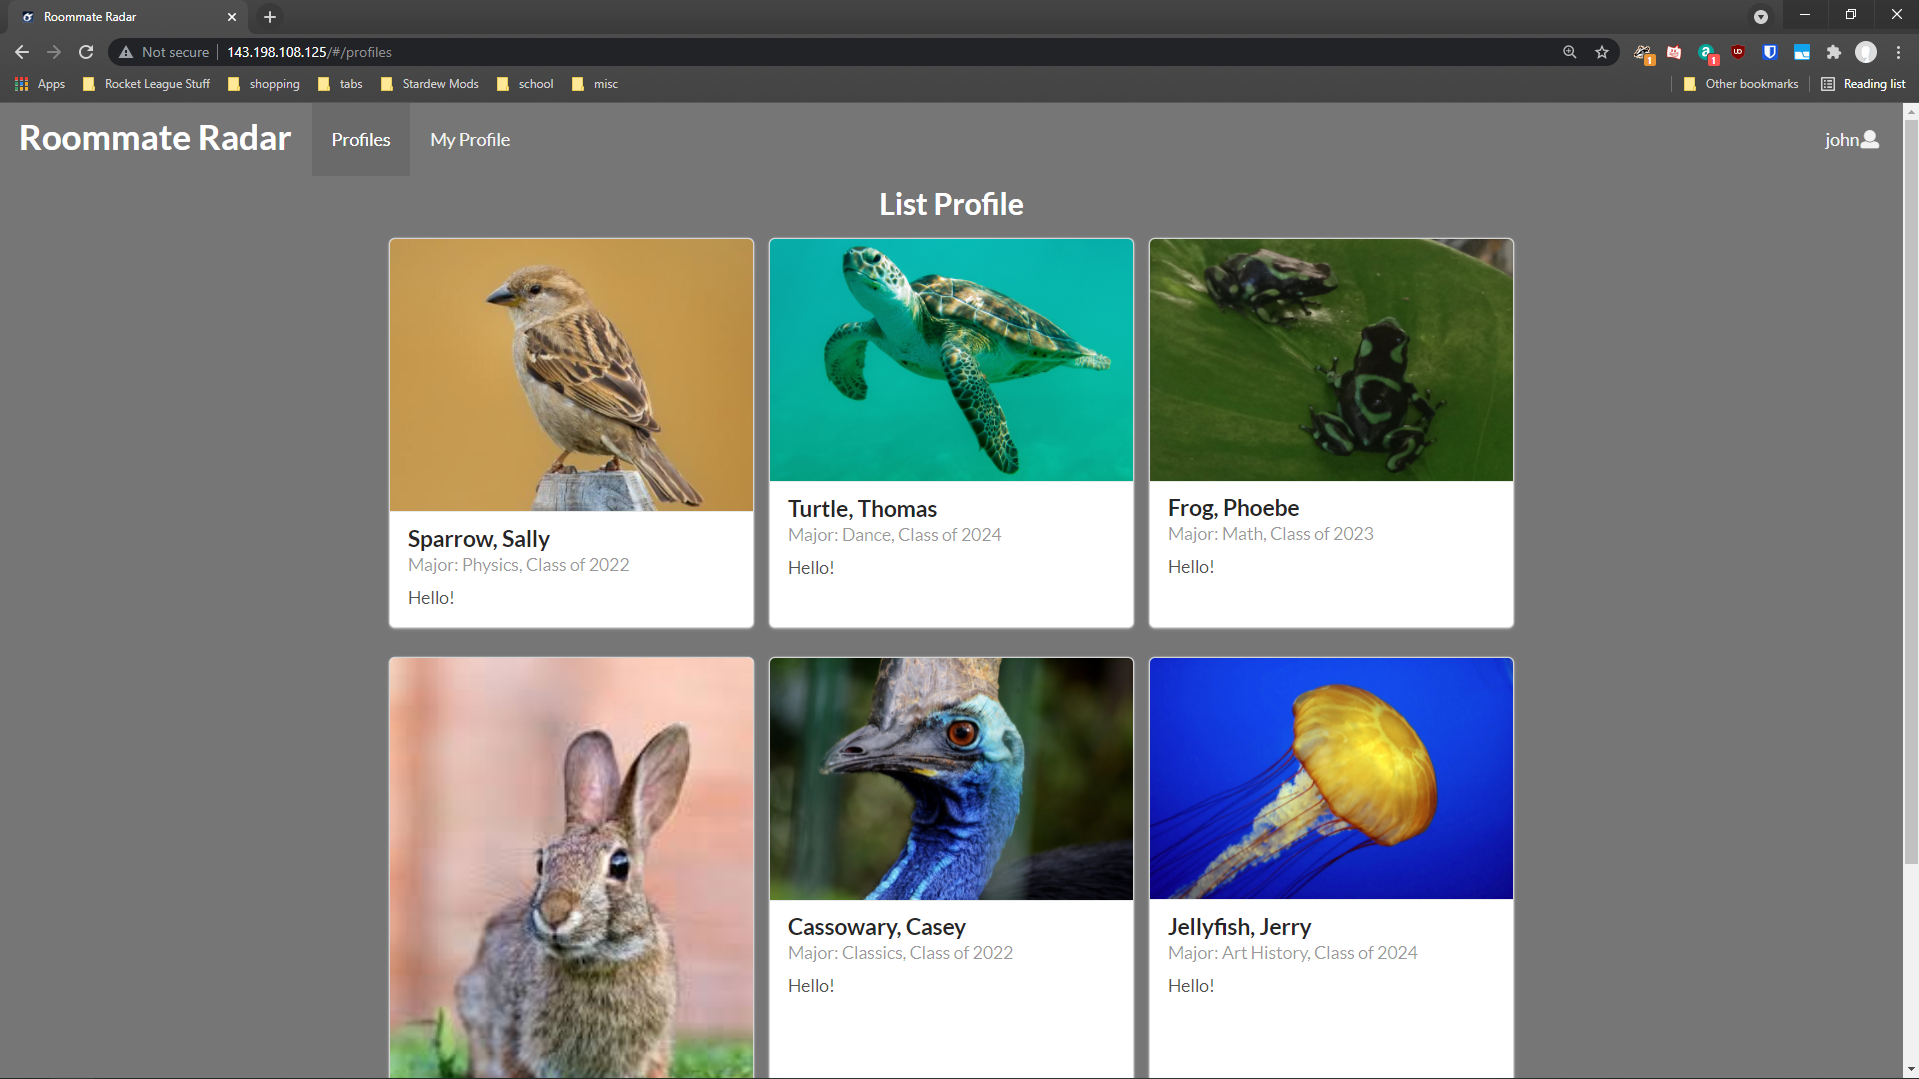
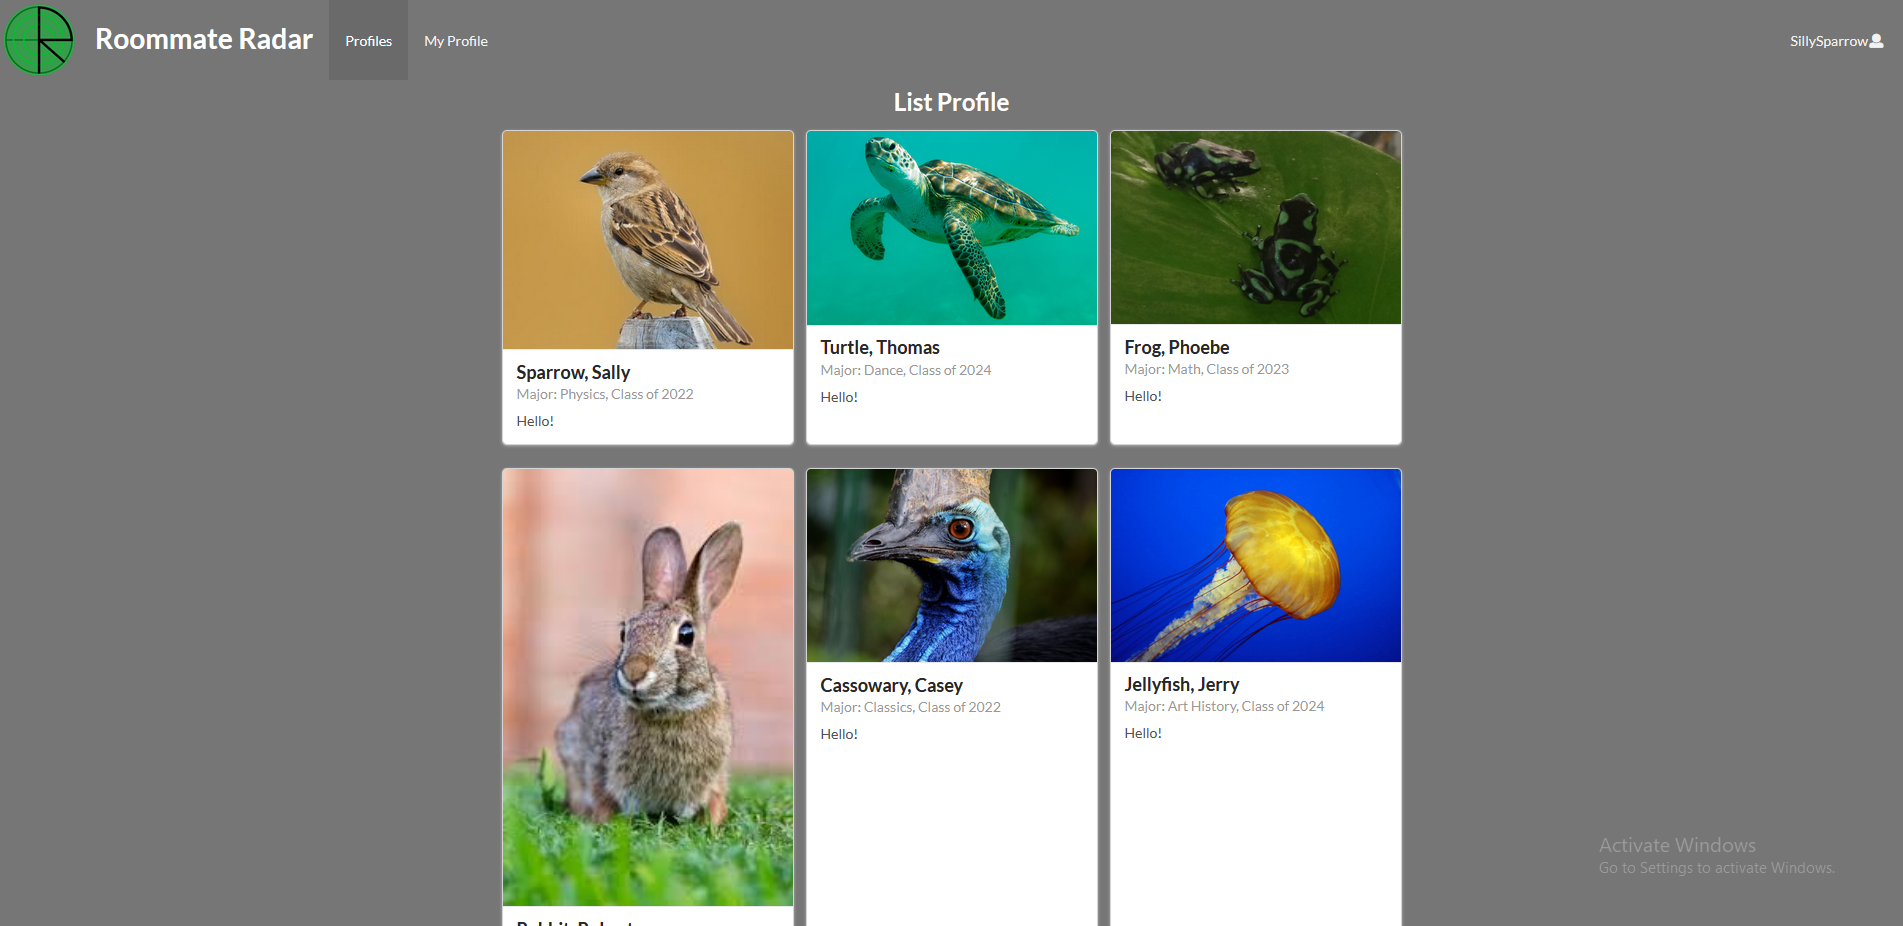
updated the images and mockups/user guide in the index.md

diff --git a/index.md b/index.md
@@ -33,21 +33,31 @@ If all goes well, the application will start up and appear at [http://localhost:
 
 ## Mockups
 ### Landing Page
-![](/images/landing_screenie.png)
-
 The landing page is the first page any prospective user will be presented with upon loading up Roommate Radar. On this page, potential users will be informed of what Roommate Radar is, and instructed to make an account.
-### Account Creation Page (1)
-![](/images/register_screenie.png)
+![](/images/landing_screenie.PNG)
 
-In order to start using Roommate Radar, users must first make an account. To do so, they must create an account including a username, password, and associated UH email address.
-### Account Creation Page (2)
-![](/images/createprofile_screenie.png)
+### Sign Up and Sign In
+In order to start using Roommate Radar, users must first make an account. To do so, they must select the "Sign up" button to go to the following page and sign up. They must create an account including a username, password, and associated UH email address.
+![](/images/register_screenie.PNG)
 
-Upon creating an account with Roommate Radar, users must then populate their profile so that other users can use the information within to connect with them.
+Upon creating an account with Roommate Radar, users must then populate and create their profile so that other users can use the information within to connect with them.
+![](/images/createprofile_screenie.PNG)
+
+Alternatively, you can select "Sign in" to go to the following page and log in if you have an existing account.
+![](/images/signin_screenie.PNG)
+
 ### Profiles List Page
-![](/images/listprofiles_screenie.png)
-
 The profiles page lists cards containing the details of all the users of Roommate Radar, and also contains a myriad of filter options to help users find others like them.
+![](/images/listprofiles_screenie.PNG)
+
+### User's Profile Page
+The user's profile page contains the details of the users themselves when they created their own profile. Upon entering this page, they can edit their own profile with the "Edit Profile" button.
+![](/images/myprofile_screenie.PNG)
+
+### Edit Profile Page
+A user can edit their own profile page and change any details which will be updated throughout the application.
+![](/images/editprofile_screenie.PNG)
+
 ### Examples of Filters
 ![](/images/filters_ex.png)
 
